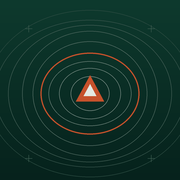
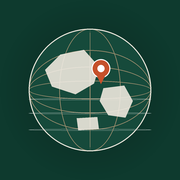
feat: reis handmatig deactiveren, adres uit boekingslink, nieuw app-icoon
- Reis deactiveren-knop (js/screen-tickets.js): schakelt expliciet naar de
  reis met de meest recente startdatum in plaats van automatisch trips[0] —
  kan niet als het de enige reis is.
- Best-effort adres/locatie ophalen uit een niet-Google-Maps-link (bv.
  Booking.com/Airbnb): nieuwe server-functie api/extract-listing.js leest
  de paginabron en zoekt naar JSON-LD (schema.org Hotel/LodgingBusiness)
  of Open Graph plaats-metadata. Lukt dat niet, dan blijven de velden leeg
  voor handmatige invoer. Bevat SSRF-bescherming (blokkeert private/
  loopback-hostnamen, alleen http/https, begrensde response-grootte,
  timeout).
- Nieuw app-icoon (wereldbol-met-pin, spruce-green/topografische stijl)
  vervangt de opgeschaalde placeholder uit N2.
- Nieuw plan voor deel-links met view/edit-rechten
  (docs/10-issues/07-deel-links-permissies-plan.md) — nog niet gebouwd,
  wacht op akkoord gezien de omvang (vereist Firebase Authentication en
  herschreven Firestore-rules).
- Change History van de web-vs-Flutter-vergelijking bijgewerkt naar v1.7.

diff --git a/api/extract-listing.js b/api/extract-listing.js
@@ -1,0 +1,148 @@
+// ═══════════════════════════════════════════════════════════
+// api/extract-listing.js — Vercel serverless function
+// Best-effort adres/locatie ophalen uit een verblijf-link
+// (Booking.com, Airbnb, hotel-site, etc.) door de paginabron
+// server-side te lezen en te zoeken naar gestructureerde data
+// (JSON-LD schema.org Hotel/LodgingBusiness/Place, of Open
+// Graph place:location-meta). Lukt dit niet, dan geeft dit
+// endpoint gewoon "found: false" terug — geen gok, de gebruiker
+// vult dan zelf aan. Fragiel van aard: sites kunnen dit op elk
+// moment laten stoppen door hun markup te wijzigen.
+// ═══════════════════════════════════════════════════════════
+
+export default async function handler(req, res) {
+  if (req.method !== 'GET') {
+    return res.status(405).json({ error: 'Alleen GET toegestaan' });
+  }
+
+  const { url } = req.query;
+  if (!url) return res.status(400).json({ error: 'Geef een url op' });
+
+  let parsed;
+  try {
+    parsed = new URL(url);
+  } catch {
+    return res.status(400).json({ error: 'Ongeldige URL' });
+  }
+  if (!['http:', 'https:'].includes(parsed.protocol)) {
+    return res.status(400).json({ error: 'Alleen http/https toegestaan' });
+  }
+  if (isBlockedHost(parsed.hostname)) {
+    return res.status(400).json({ error: 'Deze host is niet toegestaan' });
+  }
+
+  try {
+    const controller = new AbortController();
+    const timeout = setTimeout(() => controller.abort(), 8000);
+    let response;
+    try {
+      response = await fetch(parsed.toString(), {
+        headers: { 'User-Agent': 'Mozilla/5.0 (compatible; TravelCockpitBot/1.0)' },
+        redirect: 'follow',
+        signal: controller.signal,
+      });
+    } finally {
+      clearTimeout(timeout);
+    }
+
+    if (!response.ok) {
+      return res.status(200).json({ found: false });
+    }
+
+    const html = await readBounded(response, 1_500_000);
+    const info = extractListingInfo(html);
+    const found = !!(info.address || (info.lat != null && info.lng != null));
+    return res.status(200).json({ found, ...info });
+  } catch (err) {
+    console.error('extract-listing fout:', err);
+    return res.status(200).json({ found: false });
+  }
+}
+
+// Loopback/private/link-local IP's blokkeren — dit endpoint haalt een door
+// de gebruiker aangeleverde URL server-side op, dus moet voorkomen dat het
+// als proxy naar interne netwerkadressen misbruikt kan worden.
+function isBlockedHost(hostname) {
+  const h = hostname.toLowerCase();
+  if (h === 'localhost' || h.endsWith('.local') || h === '0.0.0.0') return true;
+  const ipv4 = h.match(/^(\d{1,3})\.(\d{1,3})\.(\d{1,3})\.(\d{1,3})$/);
+  if (ipv4) {
+    const [a, b] = ipv4.slice(1).map(Number);
+    if (a === 127 || a === 10 || a === 0) return true;
+    if (a === 169 && b === 254) return true;
+    if (a === 172 && b >= 16 && b <= 31) return true;
+    if (a === 192 && b === 168) return true;
+  }
+  if (h === '::1' || h.startsWith('fe80:') || h.startsWith('fc') || h.startsWith('fd')) return true;
+  return false;
+}
+
+async function readBounded(response, maxBytes) {
+  if (!response.body || !response.body.getReader) {
+    const text = await response.text();
+    return text.slice(0, maxBytes);
+  }
+  const reader = response.body.getReader();
+  const decoder = new TextDecoder();
+  let received = 0;
+  let html = '';
+  while (received < maxBytes) {
+    const { done, value } = await reader.read();
+    if (done) break;
+    received += value.length;
+    html += decoder.decode(value, { stream: true });
+  }
+  reader.cancel().catch(() => {});
+  return html;
+}
+
+function extractListingInfo(html) {
+  const ldJsonBlocks = [...html.matchAll(/<script[^>]+type=["']application\/ld\+json["'][^>]*>([\s\S]*?)<\/script>/gi)];
+  for (const block of ldJsonBlocks) {
+    try {
+      const data = JSON.parse(block[1].trim());
+      const items = flattenGraph(Array.isArray(data) ? data : [data]);
+      for (const item of items) {
+        const addr = item && item.address;
+        if (addr && typeof addr === 'object' && (addr.streetAddress || addr.addressLocality)) {
+          const parts = [addr.streetAddress, addr.postalCode, addr.addressLocality, addr.addressCountry]
+            .filter(Boolean);
+          const geo = item.geo || {};
+          return {
+            name: item.name || null,
+            address: parts.join(', ') || null,
+            lat: geo.latitude != null ? parseFloat(geo.latitude) : null,
+            lng: geo.longitude != null ? parseFloat(geo.longitude) : null,
+          };
+        }
+      }
+    } catch {
+      // dit blok was geen bruikbare JSON — volgende proberen
+    }
+  }
+
+  const latMeta = matchMetaContent(html, 'place:location:latitude');
+  const lngMeta = matchMetaContent(html, 'place:location:longitude');
+  if (latMeta && lngMeta) {
+    return { name: null, address: null, lat: parseFloat(latMeta), lng: parseFloat(lngMeta) };
+  }
+
+  return { name: null, address: null, lat: null, lng: null };
+}
+
+function matchMetaContent(html, property) {
+  const re1 = new RegExp(`<meta[^>]+property=["']${property}["'][^>]+content=["']([^"']+)["']`, 'i');
+  const re2 = new RegExp(`<meta[^>]+content=["']([^"']+)["'][^>]+property=["']${property}["']`, 'i');
+  const m = html.match(re1) || html.match(re2);
+  return m ? m[1] : null;
+}
+
+function flattenGraph(items) {
+  const out = [];
+  for (const item of items) {
+    if (!item) continue;
+    if (item['@graph']) out.push(...flattenGraph(item['@graph']));
+    else out.push(item);
+  }
+  return out;
+}

diff --git a/js/screen-accommodation.js b/js/screen-accommodation.js
@@ -178,22 +178,51 @@ function extractPlaceNameFromMapsUrl(url) {
   catch { return null; }
 }
 
-function handleExtractFromMapsLink() {
+function fillExtractedLocation(coords, name, address) {
+  if (coords) {
+    document.getElementById('edit-acc-lat-input').value = coords.lat;
+    document.getElementById('edit-acc-lng-input').value = coords.lng;
+  }
+  const addressEl = document.getElementById('edit-acc-address-input');
+  if (!addressEl.value.trim() && (address || name)) addressEl.value = address || name;
+  const nameEl = document.getElementById('edit-acc-name-input');
+  if (!nameEl.value.trim() && name) nameEl.value = name;
+}
+
+async function handleExtractFromMapsLink() {
   const url = document.getElementById('edit-acc-url-input').value.trim();
-  if (!url) { showToast('Plak eerst een Google Maps-link in het linkveld'); return; }
+  if (!url) { showToast('Plak eerst een link in het linkveld'); return; }
+
   const coords = extractLatLngFromMapsUrl(url);
-  if (!coords) {
-    showToast(url.includes('goo.gl') || url.includes('app.goo.gl')
-      ? 'Verkorte Maps-link — open de link eerst in de browser en kopieer de volledige link'
-      : 'Geen coördinaten gevonden in deze link');
+  if (coords) {
+    fillExtractedLocation(coords, extractPlaceNameFromMapsUrl(url), null);
+    showToast('✓ Locatie overgenomen uit link');
     return;
   }
-  document.getElementById('edit-acc-lat-input').value = coords.lat;
-  document.getElementById('edit-acc-lng-input').value = coords.lng;
-  const addressEl = document.getElementById('edit-acc-address-input');
-  const placeName = extractPlaceNameFromMapsUrl(url);
-  if (placeName && !addressEl.value.trim()) addressEl.value = placeName;
-  showToast('✓ Locatie overgenomen uit link');
+  if (url.includes('goo.gl')) {
+    showToast('Verkorte Maps-link — open de link eerst in de browser en kopieer de volledige link');
+    return;
+  }
+
+  // Geen Google Maps-link: best-effort proberen via de boekingspagina zelf
+  // (JSON-LD/og-tags, zie api/extract-listing.js). Lukt dit niet, dan
+  // blijven de velden gewoon leeg voor handmatige invoer — geen gok.
+  showToast('Bezig met ophalen…', 4000);
+  try {
+    const resp = await fetch(`/api/extract-listing?url=${encodeURIComponent(url)}`);
+    const data = await resp.json();
+    if (data && data.found) {
+      fillExtractedLocation(
+        data.lat != null && data.lng != null ? { lat: data.lat, lng: data.lng } : null,
+        data.name, data.address
+      );
+      showToast('✓ Gegevens overgenomen uit link');
+    } else {
+      showToast('Geen gegevens gevonden in deze link — vul handmatig aan');
+    }
+  } catch {
+    showToast('Geen gegevens gevonden in deze link — vul handmatig aan');
+  }
 }
 
 function readAccommodationFormFields() {

diff --git a/js/screen-tickets.js b/js/screen-tickets.js
@@ -219,7 +219,8 @@ function renderTripCard(trip, isActive) {
           <p class="mono" style="margin-top:4px">${from} – ${to}</p>
           <div style="display:flex;gap:7px;margin-top:11px">
             ${isActive
-              ? `<button onclick="showToast('${escapeHtml(trip.name)} is al actief')" style="padding:7px 14px;background:var(--slope-light);color:var(--spruce);border-radius:20px;border:none;cursor:pointer;font-size:11px;font-weight:700;text-transform:uppercase">✓ Actief</button>`
+              ? `<button onclick="showToast('${escapeHtml(trip.name)} is al actief')" style="padding:7px 14px;background:var(--slope-light);color:var(--spruce);border-radius:20px;border:none;cursor:pointer;font-size:11px;font-weight:700;text-transform:uppercase">✓ Actief</button>
+                 ${AppState.trips.length > 1 ? `<button onclick="handleDeactivateTrip('${trip.id}')" style="padding:7px 14px;background:white;border:1.5px solid var(--line);border-radius:20px;cursor:pointer;font-size:11px;font-weight:700;text-transform:uppercase;color:var(--ink-mid)">Deactiveren</button>` : ''}`
               : `<button onclick="handleActivateTrip('${trip.id}')" style="padding:7px 14px;background:white;border:1.5px solid var(--line);border-radius:20px;cursor:pointer;font-size:11px;font-weight:700;text-transform:uppercase;color:var(--ink-mid)">Activeren</button>`}
           </div>
         </div>
@@ -259,6 +260,19 @@ async function saveTripEdit(tripId) {
 
 async function handleActivateTrip(tripId) {
   await switchToTrip(tripId);
+  renderTripsScreen();
+}
+
+// Handmatig deactiveren (Fase F-vervolg): er is altijd precies één actieve
+// reis nodig — "deactiveren" betekent dus expliciet wisselen naar de meest
+// recente andere reis, i.p.v. stil naar trips[0]. Kan niet als het de enige
+// reis is (niets om naar over te schakelen).
+async function handleDeactivateTrip(tripId) {
+  const others = AppState.trips.filter(t => t.id !== tripId);
+  if (others.length === 0) { showToast('Je kunt de enige reis niet deactiveren'); return; }
+  const next = others.slice().sort((a, b) => (b.startDate || 0) - (a.startDate || 0))[0];
+  await switchToTrip(next.id);
+  showToast(`${next.name} is nu actief`);
   renderTripsScreen();
 }
 

diff --git a/index.html b/index.html
@@ -546,7 +546,7 @@
     </div>
     <div style="display:flex;gap:8px;align-items:center">
       <input id="edit-acc-url-input" type="url" placeholder="Link (hotel/Airbnb, optioneel)" style="flex:1"/>
-      <button type="button" onclick="handleExtractFromMapsLink()" title="Locatie uit Google Maps-link halen" style="padding:12px 13px;background:var(--slope-light);color:var(--spruce);border:none;border-radius:12px;cursor:pointer;font-size:15px;white-space:nowrap">📍</button>
+      <button type="button" onclick="handleExtractFromMapsLink()" title="Locatie/adres uit link halen (Google Maps, of best-effort uit boekingslink)" style="padding:12px 13px;background:var(--slope-light);color:var(--spruce);border:none;border-radius:12px;cursor:pointer;font-size:15px;white-space:nowrap">📍</button>
     </div>
     <textarea id="edit-acc-notes-input" placeholder="Notities (optioneel)" rows="3" style="width:100%;padding:13px 15px;border:1.5px solid var(--line);border-radius:12px;font-size:14.5px;margin-bottom:18px;font-family:inherit;resize:vertical"></textarea>
     <button id="edit-acc-save-btn" class="btn btn-primary">Opslaan</button>

diff --git a/docs/10-issues/07-deel-links-permissies-plan.md b/docs/10-issues/07-deel-links-permissies-plan.md
@@ -1,0 +1,67 @@
+# Deel-links met view/edit-rechten — architectuurplan
+
+**Document ID:** TC-ISSUES-007
+**Status:** Plan klaar, wacht op akkoord vóór bouw
+**Bron:** Verzoek 5 uit `docs/10-issues/06-vijf-nieuwe-verzoeken.md`
+
+---
+
+## Waar dit voor is
+
+Verschillende deel-links per reis, met echt afdwingbare rechten — niet gebonden aan een gebruikersaccount, maar aan de link zelf:
+
+- Een link die één specifieke reis toont, alléén bekijken.
+- Een link die alle reizen toont, alléén bekijken.
+- Een link die één specifieke reis toont, met volledige bewerkrechten.
+- Een link die alle reizen toont, met volledige bewerkrechten.
+
+Kortom: een 2×2-matrix (bekijken/bewerken) × (1 reis/alle reizen), en jij (de eigenaar) kan zelf bepalen wie welke link krijgt.
+
+## Waarom dit geen kleine toevoeging is
+
+`firestore.rules` staat nu `allow read: if true` toe op alles, zonder uitzondering — bevestigd door het bestand opnieuw te lezen. Er bestaat geen login, ook niet voor jouzelf als eigenaar. Het huidige deel-linkje plakt alleen `?trip=<id>` aan de URL zodat de app die reis toont; het is een leesbaarheids-shortcut, geen slot. Om een link echt rechten te laten afdwingen, moet er ergens een controle komen die *voordat* data wordt gelezen of geschreven checkt: bij welke link hoort dit verzoek, en wat mag die link?
+
+Dat "ergens" kan op twee manieren:
+
+## Route A — Firebase Authentication (custom tokens) + herschreven Firestore-rules — **aanbevolen**
+
+**Idee:** elke deel-link krijgt een eigen record in een nieuwe Firestore-collectie `shares/{shareId}` (bv. `{ scope: 'view'|'edit', tripId: '<id>' | null (= alle reizen), label: 'voor Jan', revoked: false }`). Als iemand de link `?share=<shareId>` opent, vraagt de app een tijdelijke sessie aan bij een nieuwe server-functie, die — met een geheime service-account-sleutel die alleen de server kent — een Firebase-"custom token" aanmaakt met die rechten erin gebakken. De browser logt daarmee anoniem in bij Firebase; vanaf dat moment controleren de Firestore-rules zelf (`request.auth.token.scope`, `.tripId`) of een lees/schrijf-actie is toegestaan.
+
+**Waarom dit de voorkeur heeft:** de app blijft "server-less" voor het dagelijkse gebruik — dezelfde rechtstreekse Firestore-verbinding, inclusief de **live sync tussen toestellen** die er nu al is (dat is een net zo belangrijke, onopvallend werkende functie als de rechten zelf). Alleen het inloggen zelf loopt even langs een server-functie.
+
+**Wat erbij komt:**
+1. Firebase Anonymous Authentication aanzetten (Firebase Console, jouw actie — zelfde soort stap als de Firestore-rules zelf al zijn).
+2. Nieuwe Firestore-collectie `shares/{shareId}`.
+3. Nieuwe server-functie `/api/redeem-share` — zoekt het share-record op, maakt er een custom token van (vereist `firebase-admin` + een service-account-sleutel als Vercel-omgevingsvariabele — vergelijkbaar met de bestaande `OPENCHARGEMAP_API_KEY`, dus met dezelfde valkuil: eenmalig goed plakken, niet meer terug te lezen).
+4. Nieuwe server-functie `/api/create-share` — alleen bruikbaar door jou als eigenaar (zie hieronder), maakt/herroept links.
+5. Firestore-rules herschreven: `allow read/write` gebaseerd op `request.auth.token.scope`/`.tripId` i.p.v. `if true`.
+6. Client (`js/firebase.js`): bij het openen van de app met `?share=...` wordt eerst ingelogd via het bovenstaande, vóór er iets van Firestore gelezen wordt.
+
+**Los probleem dat dit oplost, en dat nu ook nog niet bestaat: hoe log jíj zelf in als eigenaar?** Er is nu ook voor jou geen account. Voorstel: één simpele toegangscode (een PIN die alleen jij weet, gecontroleerd door een server-functie) die jouw toestel een "eigenaar"-sessie geeft met volledig, blijvend toegang tot alles — dat hoeft maar één keer per toestel, Firebase onthoudt de sessie daarna zelf. Vanuit die eigenaar-sessie beheer je dan de deel-links (aanmaken, een naam geven zoals "voor Jan", herroepen).
+
+## Route B — Eigen API-laag (alle Firestore-toegang via server-functies)
+
+**Idee:** de browser praat niet meer rechtstreeks met Firestore. Elke actie (reis laden, verblijf opslaan, ticket archiveren, …) gaat via een `/api/...`-functie die zelf de rechten controleert op basis van een link-token, en pas dan bij Firestore leest/schrijft met een eigen, volledig vertrouwde server-sleutel.
+
+**Waarom niet als eerste keuze:** dit vervangt vrijwel elke functie in `js/firebase.js` (zo'n 15-20 functies) én verliest de **live sync tussen toestellen** — Firestore's realtime `onSnapshot`-luisteraars (waarmee tickets/activiteiten nu automatisch bijwerken op andere toestellen) bestaan alleen bij een rechtstreekse Firestore-verbinding. Om dat te behouden zou er iets als polling of Server-Sent Events bovenop gebouwd moeten worden — een aparte, foutgevoelige heropbouw van iets dat vandaag al goed werkt. Meer controle, maar een veel grotere ingreep met een reëel risico op regressie in een functie die nu stilletjes goed draait.
+
+## Rode team — risico's (voor Route A, de aanbevolen route)
+
+- **Verkeerde rules kunnen jou buitensluiten van je eigen data.** Mitigatie: rules eerst testen met de Firebase Emulator Suite vóór ze gepubliceerd worden, en een aparte, altijd-volledige-toegang "eigenaar"-claim die nooit via een deel-link loopt.
+- **De service-account-sleutel is een nieuw gevoelig geheim** (zelfde categorie als de Open Charge Map-sleutel die eerder al eenmalig verkeerd geplakt bleek — G3). Eenmaal fout ingevuld is dat niet terug te lezen, alleen te overschrijven.
+- **Een gelekte deel-link geeft nog steeds toegang tot het bijbehorende niveau, totdat hij herroepen wordt** — dat is inherent aan "link = toegang" (net als een Google Docs-deelinkje). Verbetering t.o.v. nu: dit kan tenminste per link herroepen worden; nu kan dat helemaal niet.
+- **Omvang:** dit is realistisch de grootste losse ingreep van het hele traject tot nu toe — groter dan Fase B (de multi-trip-migratie). Verdient een eigen sessie, niet een instapje naast andere werk.
+
+## Voorstel voor volgorde, als je akkoord gaat
+
+1. Firebase Anonymous Authentication aanzetten (jouw actie in de Console).
+2. Eigenaar-PIN + `/api/owner-login` + jouw eigen toestel eenmalig laten inloggen.
+3. `shares`-collectie + `/api/create-share` + `/api/redeem-share`.
+4. Firestore-rules herschrijven, eerst getest in de Emulator Suite.
+5. Een klein "Deel-links beheren"-schermpje (in Instellingen/Meer) om links aan te maken/te herroepen, met de vier vaste combinaties als knoppen (1 reis bekijken / 1 reis bewerken / alle reizen bekijken / alle reizen bewerken).
+
+---
+
+## Vraag
+
+Wil je dat ik dit nu daadwerkelijk ga bouwen (dan begin ik bij stap 1-2 hierboven, met bevestiging per stap gezien de gevoeligheid), of blijft dit voorlopig alleen dit plan totdat je er klaar voor bent?

diff --git a/docs/08-technical/03-web-vs-flutter-vergelijking.md b/docs/08-technical/03-web-vs-flutter-vergelijking.md
@@ -1,7 +1,7 @@
 # Web-app vs Flutter-app — functievergelijking
 
 **Document ID:** TC-TECH-003
-**Version:** 1.6
+**Version:** 1.7
 **Status:** Living document — bijwerken zodra een rij daadwerkelijk is overgezet
 **Last Updated:** 2026-07-02
 
@@ -62,3 +62,4 @@ Expliciet: de volgende web-app-functionaliteit wordt **niet** vervangen door een
 | 1.4 | 2026-07-02 | Fase D (deels): topografische contourlijnen zijn nu locatie-specifiek — seed afgeleid van echte coördinaten, ringdichtheid afgeleid van elevatie (`topoSeedForLocation()`/`generateTopoLines(seed, elevation)` in `js/topo.js`, toegepast op accommodatie-hero en Discover-header). Iconen unificeren tussen handmatige activiteiten en AI-suggesties via gedeelde `CATEGORY_EMOJIS` (`js/data.js`) — dit loste ook een echte bug op: het categorie-icoon van een AI-suggestie ging verloren (viel terug op generiek 📍) zodra je "+ Plan" tikte; handmatig toegevoegde activiteiten hebben nu ook een soort-kiezer i.p.v. altijd 📍. Nog open in Fase D: kleur-als-wayfinding verdiepen, en onderzoek of Komoot's hoogteprofiel embedbaar is bij wandelsuggesties (zie `docs/10-issues/02-feedback-01juli.md`). |
 | 1.5 | 2026-07-02 | Fase E afgerond (PR's #18–#20, zie `docs/10-issues/03-fase-e-plan-en-nieuwe-ideeen.md`): potlood-icoon-bewerken voor verblijf/reis/activiteit/ticket, ticket-archiveren (vervangt de 100% hardcoded "Klimapark 2469"-kaart), verblijf-verwijderen vraagt nu wat er met de bijbehorende activiteiten gebeurt, reisdata herberekent automatisch uit alle verblijven, en oude verblijven zijn terug-navigeerbaar naar hun activiteiten van toen. Plus drie losse bugfixes: hardcoded "Laders: 04", een "Eten & café"-filter die cafés uitsloot, en kaart-pin-details die minder acties toonden dan vanuit Planning. Nog open: N1/N2/N6/N8/H4 (offline-app-shell, PWA-manifest, JSON-export, meerdaagse weerstrip, suggesties-verversen-i.p.v.-vervangen) als snelle vervolgstap; N3 (Discover "bij activiteit") en N7 (echte routing via OSRM) apart te bespreken, groter van scope. |
 | 1.6 | 2026-07-02 | Fase F afgerond (zie `docs/10-issues/05-reis-levenscyclus-plan.md`): een kritieke bug gefixt waarbij `dbLoadAccommodations()` op `orderBy('order')` sorteerde — Firestore sluit documenten zonder dat veld volledig uit van het resultaat, en alleen de originele Noorwegen-seed had ooit een `order`-waarde, dus verblijven van élke via "Reis toevoegen" aangemaakte reis laadden nooit. Nu sorteren op `checkIn` (altijd aanwezig), wat meteen ook "verblijven herordenen" overbodig maakte (chronologisch sorteren was de eigenlijke wens). Verblijf toevoegen aan een bestaande reis kan nu ook (`+ Verblijf`-knop, `openAddAccommodationSheet()`). `deleteTrip()` schakelt niet meer stil naar een andere reis als de actieve reis verwijderd wordt — een keuzescherm (`sheet-pick-active-trip`) vraagt nu expliciet welke reis actief wordt. Losse bugfix daarna: de kaart-pin/chip-afkorting (`short`) werd niet bijgewerkt bij het hernoemen van een verblijf — `readAccommodationFormFields()` berekent 'm nu mee. Plus: locatie uit een volledige Google Maps-link overnemen (lat/lng + plaatsnaam, 📍-knop naast het linkveld in het verblijf-formulier) — verkorte `maps.app.goo.gl`-links kunnen niet client-side opgelost worden. Nog open, bewust geparkeerd: design/thema per reis-land (Deel 4), zoekbalk in "Mijn reizen", handmatig een reis kunnen deactiveren zonder een andere te activeren, per-reis-icoon op het beginscherm, en een beveiligde deel-link-architectuur met view/edit-rechten (vereist Firebase Authentication of een API-proxy-laag — de app heeft nu geen enkele toegangscontrole, `firestore.rules` staat `allow read: if true` overal toe). Zie `docs/10-issues/06-vijf-nieuwe-verzoeken.md`. |
+| 1.7 | 2026-07-02 | Vervolg op verzoek 06: reis kan nu ook handmatig gedeactiveerd worden (`handleDeactivateTrip()` in `js/screen-tickets.js` — schakelt naar de reis met de meest recente startdatum, kan niet als het de enige reis is). Best-effort adres/locatie ophalen uit een boekings-link (niet alleen Google Maps): nieuw `api/extract-listing.js` haalt de paginabron server-side op en zoekt naar JSON-LD (schema.org Hotel/LodgingBusiness) of Open Graph plaats-metadata; lukt dat niet, dan blijven de velden leeg voor handmatige invoer — geen gok. Nieuw, scherper app-icoon (wereldbol-met-pin-motief in de bestaande spruce-green/topografische stijl) vervangt de opgeschaalde placeholder; per-reis-icoon blijft geparkeerd (vereist een eigen sub-URL per reis, te grote ingreep). Een apart architectuurplan voor deel-links met view/edit-rechten is uitgewerkt in `docs/10-issues/07-deel-links-permissies-plan.md` — nog niet gebouwd, wacht op akkoord (vereist Firebase Authentication + herschreven rules, de app heeft nu geen enkele echte toegangscontrole). |
